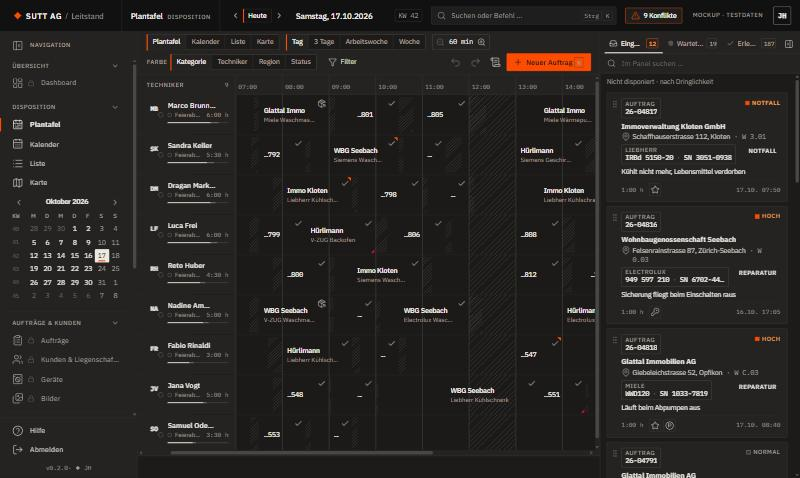
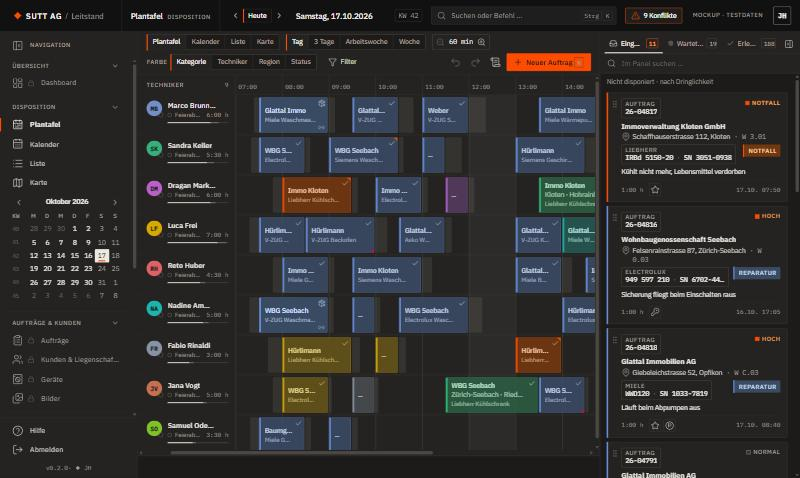
docs(changelog): nachtrag outlook-look, screenshots neu ◆

diff --git a/README.jh.md b/README.jh.md
@@ -117,15 +117,18 @@ Hero-Sektionen · «Welcome back» · Inter · zentrierte Leerlayouts · knallig
 | `--sl-signal-ink`  | `#B84D00` | Signal als Schrift                               |
 | `--sl-chrome`      | `#1A1A1A` | Topbar und Login links – in beiden Modi Anthrazit |
 
-**Kategorien** (Kante · Fläche · Schrift) – Farbe kommt wie bei Outlook-Kategorien in die Fläche:
+**Kategorien** (Kante · Schrift) – Farbe kommt wie bei Outlook-Kategorien in die Fläche:
 Reparatur `#2F6FB2` · Installation/Montage `#2E8B57` · Lieferung `#C98A00` · Garantie `#7B4FA6` ·
 Mietgerät `#0F8A8A` · Malerarbeiten `#A0522D` · Offerte/Besichtigung `#5C6B7A` · Notfall `#F86C04`.
-Jede Kategorie hat `--sl-kat-<id>-edge/-bg/-ink`; die Fläche ist hell getönt, die Kante kräftig, die Schrift dunkel.
+Jede Kategorie hat `--sl-kat-<id>-edge/-ink`; die Fläche entsteht aus `color-mix(Kante, --sl-tint-mix, Oberfläche)`
+(hell 30 %, dunkel 36 %) – ein Token für alle Flächen, `jh:contrast` rechnet die Mischung nach. Erledigte Einsätze
+bleiben farbig (Häkchen, 90 % Deckkraft): ein Plan voller Grau sagt nichts. Im überlagerten Kalender trägt der Balken
+links zusätzlich die Technikerfarbe (`--sl-balken`), die Fläche bleibt bei «Farbe nach».
 
-**Status** wird nicht über Farbe gezeigt, sondern über Icon und Muster: unterwegs `Truck` · vor Ort `MapPin` +
-pulsierender Punkt · wartet auf Teil Schraffur + `PackageSearch` · erledigt entsättigt + `Check` ·
-überzogen / Fahrzeit knapp rote Ecke · dringend Signal-Ecke. Die Status-Töne (`--sl-st-*`) bleiben für
-Swatches und Legenden.
+**Status** wird nicht über Farbe gezeigt, sondern über Icon und Kante: unterwegs `Truck` · vor Ort `MapPin` +
+pulsierender Punkt · wartet auf Teil gestrichelte Kante + `PackageSearch` · erledigt `Check` ·
+überzogen / Fahrzeit knapp rote Ecke · dringend Signal-Ecke · verknüpft `Link2`. Die Status-Töne (`--sl-st-*`)
+bleiben für Swatches und Legenden.
 
 **«Farbe nach»** (Toolbar): Kategorie (Standard) · Techniker (`--sl-tech-1…9`, Avatar + Zeilenmarke) ·
 Region · Status. Umgesetzt als Klassentausch in `core/ui/farben.module.css`: jede Klasse setzt
@@ -161,7 +164,7 @@ Umschaltung im Benutzermenü (persistiert), kein Automatismus über `prefers-col
 /* ┌────────────────────────────────────────────────────────────────────────┐
    │  SUTT·LEITSTAND  ·  modules/dispo/views/Kalender.tsx                   │
    │  ◆ JH · 2026.10 · rev 02                                               │
-   │  Outlook-Kalender: Tag / AW / Woche / Monat, Split pro Techniker       │
+   │  Outlook-Kalender: Techniker-Kalender, Tag/AW/Woche/Monat, Split       │
    └────────────────────────────────────────────────────────────────────────┘ */
 ```
 
@@ -197,7 +200,9 @@ In CSS: `/* ── §1 · Rahmen ──── */`.
 - Keine generischen Namen (`data`, `item`, `handleClick`) – sprechend: `offeneTeile`, `onSpurDrop`.
 - Kleine Funktionen, **frühe Returns**, **keine verschachtelten Ternaries**, **kein `any`**.
 - **Props-Typ direkt über der Komponente.** **Nur benannte Exporte** (Ausnahme: `vite.config.ts`).
-- CSS-Klassen **kebab-case**, Token-Präfix **`--sl-`**, Kategorie-Tokens `--sl-kat-<id>-edge/-bg/-ink`.
+- CSS-Klassen **kebab-case**, Token-Präfix **`--sl-`**, Kategorie-Tokens `--sl-kat-<id>-edge/-ink`, Flächen über `--sl-tint-mix`.
+- **Dynamische Klassen nur über `modulKlasse(styles, 'status-vor-ort')`** (`core/ui/cx.ts`): Vite exportiert mit
+  `camelCaseOnly` nur `styles.statusVorOrt` – `styles['status-vor-ort']` ist still `undefined` und färbt nichts.
 - **Keine Inline-Styles** – ausser dynamischen Positionen/Massen (Zeitraster, Kalenderraster, Balken, Pins).
 - Kein KI-Ton: keine Füllkommentare, keine Platzhaltertexte, keine Emojis im Code.
 
@@ -235,9 +240,14 @@ Seitenleiste zeigt `v0.2.0 · ◆ JH`; der Tooltip trägt Build-Datum und Commit
 - **Ansichten** (Toolbar, Tasten `1–4`): Plantafel · Kalender · Liste · Karte; Zeitraum je Ansicht; Zoom 15/30/60;
   Farbe nach Kategorie/Techniker/Region/Status; Filter (Region, Techniker, Status, Kategorie) blendet ab statt aus.
 - **Plantafel Tag**: 9 Techniker × 06–20 Uhr (Arbeitszeit 07–18 hell), Zeilen 72–120 px, Spuren bei Überschneidung,
-  Fahrzeit-Puffer (schraffiert, rot wenn zu knapp), Absenzen als Ganztagsblock, Jetzt-Pille, Live-Puls am Avatar,
+  Fahrzeit-Puffer (graue Fläche, rot wenn zu knapp), Absenzen als Ganztagsblock, Jetzt-Pille, Live-Puls am Avatar,
   Klick auf den Namen → Druckansicht. Mehrtägig: Tagesspalten mit kompakten Blöcken, Klick auf den Tag zoomt hinein.
-- **Kalender**: Tag (Nebeneinander pro Techniker), Arbeitswoche, Woche, Monat (Pillen, «+n weitere»), Ganztag-Leiste für Absenzen, Drop in Spalten.
+- **Kalender**: Kalenderleiste mit einem farbigen Chip pro Techniker (Klick blendet ein/aus, Doppelklick zeigt nur ihn, «Alle»);
+  Tag nebeneinander pro Techniker (Standard), Arbeitswoche/Woche überlagert mit Kürzel und Technikerbalken (nebeneinander bis
+  3 Kalender), Monat (Pillen, «+n weitere»), Ganztag-Leiste für Absenzen, Drop in Spalten.
+- **Verknüpfungen**: Erst-/Folgetermin desselben Auftrags und Bezugsaufträge (`bezugAuftragId`: Mietgerät ↔ Reparatur,
+  Ersatzlieferung, Malerarbeiten nach Schaden). Kettenglied im Block; beim Auswählen Winkel-Linien zu sichtbaren Partnern,
+  Pfeil-Stummel mit Datum zu anderen Tagen, gestrichelter Ring am Partner; Chips in der Akte; «Folgetermin … zeigen» im Wartet-Tab.
 - **Liste**: sortierbar, gruppierbar (Techniker/Status/Kategorie/Region), Spalten ein-/ausblendbar, Mehrfachauswahl → Techniker zuweisen, auf Datum verschieben.
 - **Karte**: Pins in Tagesreihenfolge, Linien pro Techniker ab Werkhof, synchrone Tourenliste, Karte/Schema umschaltbar.
 - **Rechtes Panel**: Eingang (nach Dringlichkeit, dann Alter) · Wartet auf Teil (Liefertermin, «Folgetermin vorschlagen») ·
@@ -259,7 +269,7 @@ Alle Firmen, Personen, Nummern und E-Mails (`.example`) sind **erfunden**.
 1. **Smart-Slot beim Ziehen** – Freie Fenster färben sich grün/gelb/rot (Region, Markenkompetenz, Fahrzeit, Auslastung),
    die Vorschau nennt den Grund. *Warum:* Der Disponent entscheidet in Sekunden; die Bewertung macht sein Bauchgefühl sichtbar
    und ist mit vier Kriterien nachvollziehbar – kein schwarzer Kasten.
-2. **Fahrzeit-Puffer sichtbar** – Zwischen Einsätzen ein schraffierter Streifen in Fahrzeitlänge, rot bei zu knapper Lücke.
+2. **Fahrzeit-Puffer sichtbar** – Zwischen Einsätzen ein grauer Streifen in Fahrzeitlänge, rot bei zu knapper Lücke.
    *Warum:* Papier- und Excel-Pläne kennen keine Fahrzeit; genau dort entstehen Verspätungen.
 3. **Konflikt-Wächter** – Badge in der Topbar zählt Überschneidungen, Arbeitszeit, fehlende Teile, knappe Fahrten, Absenzen;
    Klick springt der Reihe nach hin. *Warum:* Fehler fallen auf, bevor der Techniker losfährt.
@@ -279,6 +289,12 @@ Alle Firmen, Personen, Nummern und E-Mails (`.example`) sind **erfunden**.
     *Warum:* Der Zettel im Fahrzeug bleibt Realität; der QR-Code bringt die Route aufs Telefon.
 11. **Kunden-Info-Chips** – Rechnung offen seit 34 Tagen, Stammkunde, Schlüssel bei Verwaltung, Hund im Haus, Parkieren.
     *Warum:* Kleine Hinweise ersparen den Rückruf vor der Haustür.
+12. **Verknüpfungslinien** – Wählt man einen Einsatz, führen Gantt-artige Winkel zu Folgetermin, Ersttermin und Bezugsaufträgen
+    (Mietgerät zur Reparatur, Ersatzlieferung); liegt der Partner an einem anderen Tag, zeigt ein Pfeil-Stummel mit Datum dorthin.
+    *Warum:* «Gehört das zusammen?» ist die häufigste Rückfrage im Büro. Outlook kennt keine Abhängigkeiten – ein Serviceplan braucht sie.
+13. **Techniker-Kalender wie in Outlook** – Jeder Techniker ist ein Kalender mit eigener Farbe, per Chip ein- und ausblendbar;
+    im Tag nebeneinander, in der Woche überlagert mit Kürzel und Farbbalken. *Warum:* Das Modell kennt jeder aus Outlook –
+    niemand muss lernen, wie man drei Kollegen vergleicht.
 
 ---
 
@@ -308,8 +324,9 @@ kein Routing-Dienst (Fahrzeit ist Luftlinie × Faktor), OSM-Kacheln nur fürs Mo
 ## 11 · Screenshots
 
 `docs/screenshots/` – aufgenommen am 17.10.2026 bei 1440 × 860, hell (`hell-*`) und dunkel (`dunkel-*`):
-Login, Plantafel, Kalender (Arbeitswoche), Liste, Karte, Akte, Tagesplan-Druck; dunkel zusätzlich Seitenleiste
-eingeklappt, Kommandopalette, Schnellerfassung, Panel «Wartet auf Teil», Panel «Erledigt», Panel-Schiene, Hovercard.
+Login, Plantafel (mit Verknüpfungslinien), Kalender (Tag nebeneinander, Arbeitswoche überlagert), Liste, Karte, Akte,
+Tagesplan-Druck; dunkel zusätzlich Seitenleiste eingeklappt, Kommandopalette, Schnellerfassung, Panel «Wartet auf Teil»,
+Panel «Erledigt», Panel-Schiene, Hovercard.
 
 Die grosse Karte zeigt auf den Bildern die Schemakarte: der eingebettete Prüf-Browser drosselt `requestAnimationFrame`,
 MapLibre meldet kein `load`, nach 10 s greift der Fallback. Im normalen Browser erscheinen die OSM-Kacheln – wie im

diff --git a/CHANGELOG.jh.md b/CHANGELOG.jh.md
@@ -21,7 +21,7 @@ Format: ein Abschnitt pro Revision, Bereiche wie im Commit-Stil (`dispo(kalender
 - **Innovationen**: Smart-Slot beim Ziehen, Fahrzeit-Puffer mit Konfliktmarke, Konflikt-Wächter, Ersatzteil-Kopplung (3 Slots ab Liefertermin), Kommandopalette `Strg+K`, Kapazitätsband (Woche als Heatmap), Telefon-Schnellerfassung `N`, Live-Puls, Undo/Redo mit Protokoll, Tagesplan drucken mit QR-Code, Kunden-Info-Chips.
 - **Drag & Drop** auf `@dnd-kit/core`: Zeiger und Tastatur (Leertaste aufnehmen, Pfeile bewegen, ↵ ablegen), Vorschau mit Begründung.
 - **Dark Mode** (`tokens.dark.css`), Umschaltung im Benutzermenü; Header bleibt Anthrazit.
-- **Mock**: 9 Techniker mit Farbe und Markenkompetenz, Koordinaten für alle Liegenschaften, Ferien/Absenzen, 12 Eingangs-Aufträge, Fotos, Rapport-/Rechnungsstatus, Gerätehistorie, Telefonbuch.
+- **Mock**: 9 Techniker mit Farbe und Markenkompetenz, Koordinaten für alle Liegenschaften, Ferien/Absenzen, 11 Eingangs-Aufträge, Fotos, Rapport-/Rechnungsstatus, Gerätehistorie, Telefonbuch.
 - **Qualität**: `npm run jh:contrast` prüft 44 Textpaare in beiden Modi (alle AA), `jh-sign` erweitert, `CHANGELOG.jh.md`, Footer `v0.2.0 · ◆ JH` mit Build-Datum und Commit, Screenshots aller Ansichten hell/dunkel in `docs/screenshots/`.
 
 ### Geändert
@@ -29,8 +29,16 @@ Format: ein Abschnitt pro Revision, Bereiche wie im Commit-Stil (`dispo(kalender
 - Dispo-State als Store (`useSyncExternalStore`) statt `useReducer`; Reducer um Redo, Bearbeiten, Kopieren, Löschen, Sammelaktionen erweitert.
 - Topbar 48 → 56 px, Seitenleiste 76 → 248/64 px, Panel 344 → 360 px.
 
+### Nachtrag 17.10. abends – Outlook-Look
+- **Farbe**: Blockflächen aus Kante × `--sl-tint-mix` (hell 30 %, dunkel 36 %) statt blasser `-bg`-Töne; Erledigt bleibt farbig (Häkchen, 90 % Deckkraft); Chips, Pillen und Avatare ziehen mit. `jh:contrast` rechnet die Mischflächen nach (61 Paare × 2 Modi, alle AA).
+- **Behoben**: Farb- und Statusklassen griffen nie – Vite exportiert mit `camelCaseOnly` nur `styles.katReparatur`, der Code las `styles['kat-reparatur']`. Alle dynamischen Zugriffe laufen jetzt über `modulKlasse()` in `core/ui/cx.ts`.
+- **Kalender**: Kalenderleiste mit farbigen Techniker-Chips (ein-/ausblenden, Doppelklick = nur dieser, «Alle»), Tag standardmässig nebeneinander, Arbeitswoche/Woche überlagert mit Kürzel und Technikerbalken (nebeneinander bis 3 Kalender), farbige Spaltenköpfe, Tageszeile im Split. Umschalter aus der Toolbar in die Leiste gezogen.
+- **Verknüpfungen**: `Auftrag.bezugAuftragId`; Erst-/Folgetermin und Bezugsaufträge als Winkel-Linien (Plantafel, Kalender) mit Beschriftung, Pfeil-Stummel mit Datum zu anderen Tagen, Kettenglied im Block, gestrichelter Ring am Partner, Chips in der Akte, «Folgetermin … zeigen» im Wartet-Tab.
+- **Ruhe**: Fahrzeit-Puffer, Mittag und «Wartet auf Teil» ohne Schraffur; Blockstufen messen die Inhaltsbreite; Toolbar-Gruppen brechen um statt abzuschneiden.
+- **Mock**: Folgetermine `E-A01-F` (Do, MB) und `E-A25-F` (Di, NA); Mietgerät 26-04819 heute 14:00 bei LF mit Bezug auf 26-04788 (Eingang 11 statt 12); Bezüge 26-04782 → 26-04790 und 26-04820 → 26-04814.
+
 ### Offen
-- `jh# 001` Mitternachtswechsel · `jh# 007` OSM-Kacheln nur fürs Mockup · `jh# 008` Routing-API statt Luftlinie · `jh# 009` virtuelle Zeilen · `jh# 010` Gerätedaten nach Schnellerfassung.
+- `jh# 001` Mitternachtswechsel · `jh# 007` OSM-Kacheln nur fürs Mockup · `jh# 008` Routing-API statt Luftlinie · `jh# 009` virtuelle Zeilen · `jh# 010` Gerätedaten nach Schnellerfassung · `jh# 011` Verknüpfungslinien auch in Monat und Mehrtages-Plantafel.
 
 ## rev 01 · 2026.10 · v0.1.0 – Disposition Mockup
 

diff --git a/TODO.jh.md b/TODO.jh.md
@@ -10,6 +10,7 @@ Erledigt → `- [x]` setzen und die Marke im Code entfernen. `npm run jh:check` 
 - [ ] **jh# 008** · `core/geo.ts` – Fahrzeit ist Luftlinie × 1.35: durch Routing-API (Google Distance Matrix oder OSRM) ersetzen, Signatur `(von, nach) → Minuten` bleibt.
 - [ ] **jh# 009** · `modules/dispo/views/Plantafel.tsx` – Virtuelle Zeilen ab 20 Technikern (heute 9, alle gerendert).
 - [ ] **jh# 010** · `modules/dispo/Schnellerfassung.tsx` – Neues Gerät legt Modell/Typ als «noch nicht erfasst» an; Typenschild-Scan (Modul Geräte) soll das nachtragen.
+- [ ] **jh# 011** · `modules/dispo/views/Kalender.tsx` – Verknüpfungslinien auch im Monat und in der Mehrtages-Plantafel (heute nur Plantafel Tag und Kalender-Zeitraster; Pillen melden sich nicht bei der Block-Registry).
 
 ## Erledigt
 
